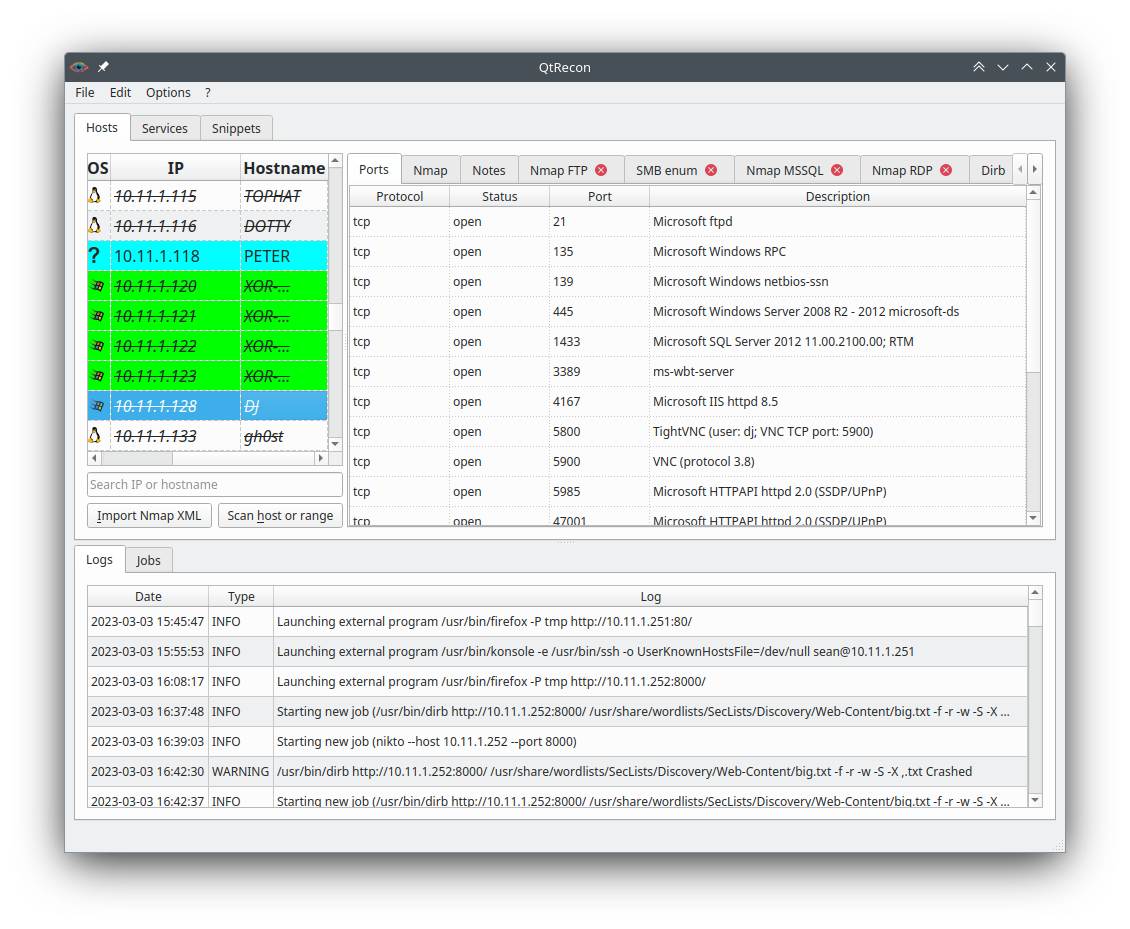
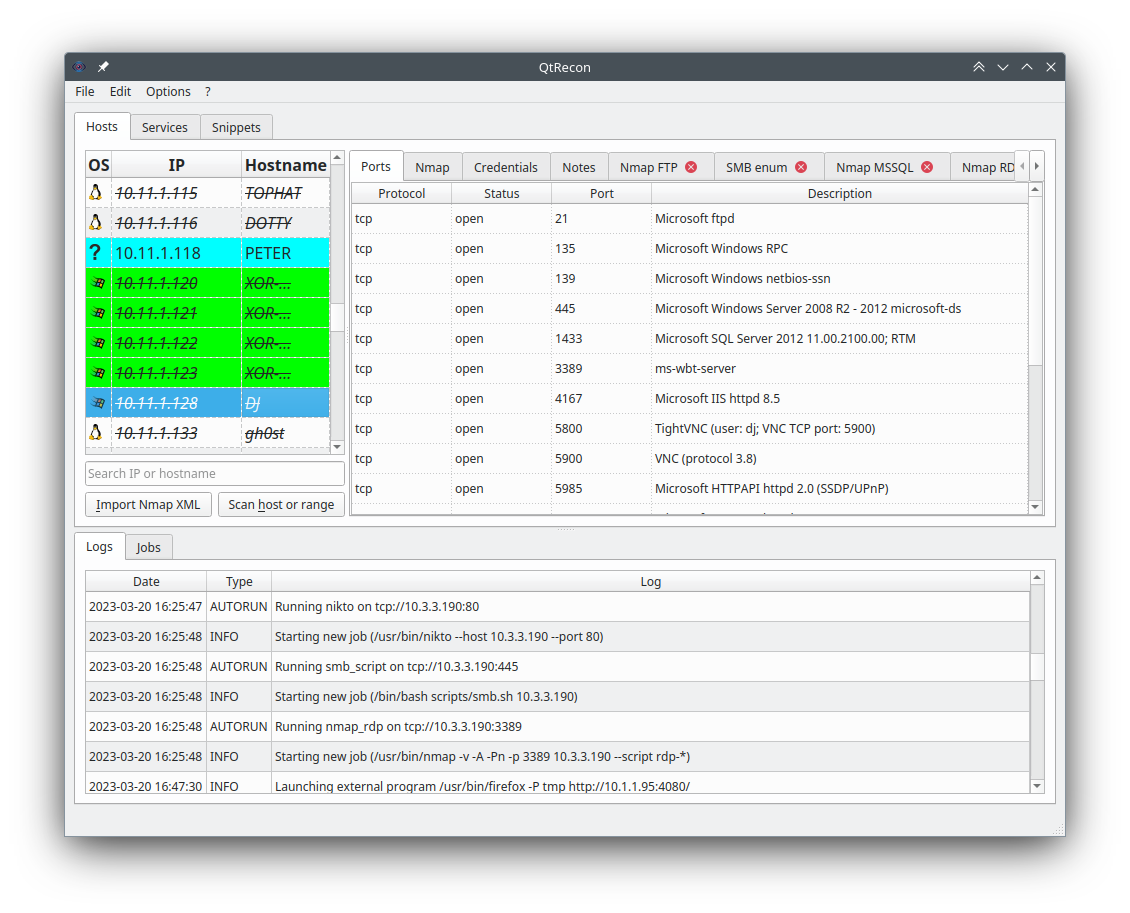
Version 1.2

Changed region(s): [[0.0619, 0.0613, 0.9292, 0.8894], [0.8673, 0.0613, 0.9292, 0.092], [0.4646, 0.0613, 0.5265, 0.092]]

diff --git a/core/view.py b/core/view.py
@@ -1,6 +1,6 @@
 from PySide2.QtGui import QCursor, QIcon, QTextCursor
 from PySide2.QtWidgets import QApplication, QFileDialog, QTabBar, QTableWidgetItem, QMenu, QTextEdit, QTableWidget, \
-    QAbstractItemView, QMessageBox, QInputDialog, QDialog, QLabel, QLineEdit, QHeaderView
+    QAbstractItemView, QMessageBox, QInputDialog, QDialog, QLabel, QLineEdit, QHeaderView, QWidget, QComboBox
 from PySide2.QtCore import QPoint, QModelIndex, Qt
 
 import ipaddress  # check input for IP
@@ -24,6 +24,7 @@ class View:
 
         self.default_tabs = [{'name': 'Ports', 'object': type(QTableWidget())},
                              {'name': 'Nmap', 'object': type(QTextEdit())},
+                             {'name': 'Credentials', 'object': type(QTableWidget())},
                              {'name': 'Notes', 'object': type(QNoteTextEdit())}]
         self.app_tabs = dict()
 
@@ -131,7 +132,7 @@ class View:
         self.ui.ui.escaped_chars.textEdited.connect(self.setup_ui_snippets_body)
         self.ui.ui.urlencoded_chars.textEdited.connect(self.setup_ui_snippets_body)
         self.ui.ui.port_table.itemSelectionChanged.connect(self.change_filter_hosts_for_port)
-        self.ui.ui.machine_list_copy_selection_to_clipboard.clicked.connect(self.machine_list_copy_selection_to_clipboard)
+        self.ui.ui.machine_list_copy_selection_to_clipboard.clicked.connect(lambda: self.copy_selectedIndexes_to_clipboard(self.ui.ui.hosts_for_port_table.selectedIndexes()))
         self.ui.ui.machine_list_copy_all_to_clipboard.clicked.connect(self.machine_list_copy_all_to_clipboard)
         self.ui.ui.hosts_for_port_table.customContextMenuRequested.connect(self.right_click_in_hosts_for_port_table)
 
@@ -399,6 +400,53 @@ class View:
                     self.controller.new_job(program, hosts[host]['id'], port)
                 return
 
+    def right_click_in_creds_table(self, qpoint: QPoint):
+        item = self.app_tabs['Credentials'].indexAt(qpoint)
+
+        if item is None:
+            return
+
+        top_menu = QMenu()
+
+        if item.row() >= 0 or item.column() >= 0:
+            clipboard_action = top_menu.addAction("Copy selected cells into clipboard")
+            clipboard_action.setIcon(QIcon.fromTheme("edit-copy"))
+            delete_action = top_menu.addAction("Delete credentials")
+            delete_action.setIcon(QIcon.fromTheme("edit-delete"))
+            top_menu.addSeparator()
+        insert_action = top_menu.addAction("Insert new credentials")
+        insert_action.setIcon(QIcon.fromTheme("document-new"))
+
+        action = top_menu.exec_(QCursor.pos())
+        if not action:
+            return
+
+        if action == insert_action:
+            self.app_tabs['Credentials'].insertRow(self.app_tabs['Credentials'].rowCount())
+            new_id = self.controller.create_creds()
+            self.app_tabs['Credentials'].setItem(self.app_tabs['Credentials'].rowCount()-1, 0, QTableWidgetItem(str(new_id)))
+
+            combo = QComboBox()
+            combo.addItems(["password", "hash", "ssh_key", "other"])
+            combo.setProperty('cred_id', str(new_id))
+            self.app_tabs['Credentials'].setCellWidget(self.app_tabs['Credentials'].rowCount()-1, 1, combo)
+            combo.currentTextChanged.connect(lambda new_type, qcombobox=combo: self.credentials_changed(qcombobox)) # signal in loop: https://stackoverflow.com/questions/46300229/connecting-multiples-signal-slot-in-a-for-loop-in-pyqt
+
+        elif action == clipboard_action:
+            self.copy_selectedIndexes_to_clipboard(self.app_tabs['Credentials'].selectedIndexes())
+        elif action == delete_action:
+            items = self.app_tabs['Credentials'].selectedIndexes()
+            creds_ids = []
+            rows_to_delete = []
+            for item in items:
+                creds_ids.append(self.app_tabs['Credentials'].item(item.row(), 0).text())
+                rows_to_delete.append(item.row())
+
+            for row in reversed(sorted(rows_to_delete)):
+                self.app_tabs['Credentials'].removeRow(int(row))
+
+            self.controller.delete_creds(list(set(creds_ids)))
+
     def launch_custom_command_dialog(self):
         new_scan_dialog = Custom_Command()
         new_scan_dialog.ui.detached.stateChanged.connect(lambda checked: new_scan_dialog.in_terminal.setEnabled(checked))
@@ -460,7 +508,7 @@ class View:
             if not filename.endswith('.sqlite'):
                 filename += '.sqlite'
             self.controller.save_db(filename)
-        
+
     def dialog_import_xml(self):
         filename, _ = QFileDialog.getOpenFileName(caption='Import nmap XML output', dir='.', filter='*.xml')
         if filename:
@@ -488,6 +536,14 @@ class View:
         current_notes = self.app_tabs['Notes'].toHtml()
         self.controller.update_notes_for_current_host(current_notes)
 
+    def credentials_changed(self, item: QComboBox | QTableWidgetItem):
+        columns_description = {0: "id", 1: "type", 2: "domain", 3: "username", 4: "password"}
+        if type(item) == QComboBox: # Type of cred has changed
+            self.controller.update_credentials(item.property('cred_id'), columns_description[1], item.currentText())
+        elif type(item) == QTableWidgetItem: # Any cell other than the credential type has changed
+            cred_id = self.app_tabs['Credentials'].item(item.row(), 0).text()
+            self.controller.update_credentials(cred_id, columns_description[item.column()], item.text())
+
     def new_tab(self, title: str, job_id: int, content: str = "") -> QTextEdit:
         tab = QTextEdit(content)
         tab.setReadOnly(True)
@@ -511,7 +567,10 @@ class View:
         self.close_right_panel_tabs()
 
         for widget in self.default_tabs:
-            self.app_tabs[widget['name']] = widget['object']()
+            if issubclass(widget['object'], QWidget):
+                self.app_tabs[widget['name']] = widget['object']()
+            else:
+                self.app_tabs[widget['name']] = QWidget()
             self.ui.ui.application_TabWidget.addTab(self.app_tabs[widget['name']], widget['name'])
 
         # Setup ports view
@@ -528,6 +587,19 @@ class View:
         # Setup nmap tab
         self.app_tabs['Nmap'].setReadOnly(True)
 
+        # Setup creds tab
+        self.app_tabs['Credentials'].setColumnCount(5)
+        self.app_tabs['Credentials'].setColumnHidden(0, True)
+        self.app_tabs['Credentials'].setHorizontalHeaderItem(0, QTableWidgetItem('id'))
+        self.app_tabs['Credentials'].setHorizontalHeaderItem(1, QTableWidgetItem('type'))
+        self.app_tabs['Credentials'].setHorizontalHeaderItem(2, QTableWidgetItem('domain'))
+        self.app_tabs['Credentials'].setHorizontalHeaderItem(3, QTableWidgetItem('username'))
+        self.app_tabs['Credentials'].setHorizontalHeaderItem(4, QTableWidgetItem('password'))
+        self.app_tabs['Credentials'].horizontalHeader().setStretchLastSection(True)
+        self.app_tabs['Credentials'].itemChanged.connect(self.credentials_changed)
+        self.app_tabs['Credentials'].setContextMenuPolicy(Qt.CustomContextMenu)
+        self.app_tabs['Credentials'].customContextMenuRequested.connect(self.right_click_in_creds_table)
+
         # Setup notes signal / slot
         self.app_tabs['Notes'].textChanged.connect(self.update_notes)
 
@@ -535,6 +607,7 @@ class View:
         self.ui.ui.application_TabWidget.tabBar().tabButton(0, QTabBar.RightSide).resize(0, 0)
         self.ui.ui.application_TabWidget.tabBar().tabButton(1, QTabBar.RightSide).resize(0, 0)
         self.ui.ui.application_TabWidget.tabBar().tabButton(2, QTabBar.RightSide).resize(0, 0)
+        self.ui.ui.application_TabWidget.tabBar().tabButton(3, QTabBar.RightSide).resize(0, 0)
 
     def update_right_panel(self, host: QModelIndex):
         host_details = self.controller.get_selected_host(host)
@@ -563,9 +636,28 @@ class View:
         if 'nmap' in host_details.keys():
             self.app_tabs['Nmap'].setText(host_details['nmap'])
 
+        # Credentials
+        self.app_tabs['Credentials'].blockSignals(True)
+        self.app_tabs['Credentials'].setRowCount(len(host_details['credentials']))
+        for row in range(len(host_details['credentials'])):
+            combo = QComboBox()
+            combo.addItems(["password", "hash", "ssh_key", "other"])
+            self.app_tabs['Credentials'].setCellWidget(row, 1, combo)
+
+        for i, cred in enumerate(host_details['credentials']):
+            self.app_tabs['Credentials'].setItem(i, 0, QTableWidgetItem(str(cred['id'])))
+            self.app_tabs['Credentials'].cellWidget(i, 1).setCurrentText(str(cred['type']))
+            self.app_tabs['Credentials'].cellWidget(i, 1).setProperty('cred_id', str(cred['id']))
+            self.app_tabs['Credentials'].cellWidget(i, 1).currentTextChanged.connect(lambda new_type, qcombobox=self.app_tabs['Credentials'].cellWidget(i, 1): self.credentials_changed(qcombobox)) # signal in loop: https://stackoverflow.com/questions/46300229/connecting-multiples-signal-slot-in-a-for-loop-in-pyqt
+            self.app_tabs['Credentials'].setItem(i, 2, QTableWidgetItem(str(cred['domain'])))
+            self.app_tabs['Credentials'].setItem(i, 3, QTableWidgetItem(str(cred['username'])))
+            self.app_tabs['Credentials'].setItem(i, 4, QTableWidgetItem(str(cred['password'])))
+
+        self.app_tabs['Credentials'].blockSignals(False)
+
         # Notes
         if 'notes' in host_details.keys():
-            self.app_tabs['Notes'].blockSignals(True) # Consumes less resources, and do not trigger the dirty marker on databas
+            self.app_tabs['Notes'].blockSignals(True) # Consumes less resources, and do not trigger the dirty marker on database
             try:
                 self.app_tabs['Notes'].setHtml(host_details['notes'])
             except ValueError:
@@ -616,9 +708,9 @@ class View:
 
         self.ui.ui.application_TabWidget.removeTab(tab_index)
 
-    def machine_list_copy_selection_to_clipboard(self):
+    def copy_selectedIndexes_to_clipboard(self, selectedIndexes: list):
         data = {}
-        for item in self.ui.ui.hosts_for_port_table.selectedIndexes():
+        for item in selectedIndexes:
             if item.data() is None:
                 continue
             if item.row() in data.keys():
@@ -636,5 +728,5 @@ class View:
 
     def machine_list_copy_all_to_clipboard(self):
         self.ui.ui.hosts_for_port_table.selectAll()
-        self.machine_list_copy_selection_to_clipboard()
+        self.copy_selectedIndexes_to_clipboard(self.ui.ui.hosts_for_port_table.selectedIndexes())
 

diff --git a/core/database.py b/core/database.py
@@ -13,11 +13,12 @@ class Database:
         Database.database = sqlite3.connect(':memory:')
         Database.database.row_factory = lambda C, R: {c[0]: R[i] for i, c in enumerate(C.description)} # get dict output (https://stackoverflow.com/questions/3300464/how-can-i-get-dict-from-sqlite-query)
 
-        Database.database.execute("create table hosts(id integer primary key autoincrement not null, os text, ip, hostname, mac, highlight text, pwned integer not null default 0 check(pwned IN (0,1)) , nmap, notes)")
-        Database.database.execute("create table hosts_ports(host_id integer, proto text, port, status text, description text)")
-        Database.database.execute("create table hosts_tabs(id integer primary key autoincrement not null, host_id integer, job_id integer, title text, text)")
-        Database.database.execute("create table logs(id integer primary key autoincrement not null, date, type, log)")
-        Database.database.execute("create table jobs(id integer primary key autoincrement not null, host_id integer, type, timestamp, state, command)")
+        Database.database.execute("CREATE TABLE hosts(id integer primary key autoincrement not null, os text, ip, hostname, mac, highlight text, pwned integer not null default 0 check(pwned IN (0,1)) , nmap, notes)")
+        Database.database.execute("CREATE TABLE hosts_ports(host_id integer, proto text, port, status text, description text)")
+        Database.database.execute("CREATE TABLE hosts_tabs(id integer primary key autoincrement not null, host_id integer, job_id integer, title text, text)")
+        Database.database.execute("CREATE TABLE hosts_creds(id INTEGER primary key autoincrement not null, host_id integer, type TEXT DEFAULT 'password', domain TEXT DEFAULT '', username TEXT DEFAULT '', password TEXT DEFAULT '')")
+        Database.database.execute("CREATE TABLE logs(id integer primary key autoincrement not null, date, type, log)")
+        Database.database.execute("CREATE TABLE jobs(id integer primary key autoincrement not null, host_id integer, type, timestamp, state, command)")
 
         Database.has_unsaved_data = False
         Database.current_savefile = ""
@@ -52,6 +53,11 @@ class Database:
         Database.init_DB()
 
         source.backup(Database.database)
+
+        # Compatibility code : if table hosts_creds does not exist (QtRecon < 1.2), then create it
+        if not Database.request("SELECT name FROM sqlite_schema WHERE type = 'table' AND name = 'hosts_creds'").fetchall():
+            Database.database.execute("CREATE TABLE hosts_creds(id INTEGER primary key autoincrement not null, host_id integer, type TEXT DEFAULT 'password', domain TEXT DEFAULT '', username TEXT DEFAULT '', password TEXT DEFAULT '')")
+
         Database.database.commit()
         Database.current_savefile = filename
 

diff --git a/core/controller.py b/core/controller.py
@@ -19,7 +19,7 @@ from core.models.jobmodel import JobModel
 
 
 class Controller:
-    APPLICATION_VERSION = "1.1"
+    APPLICATION_VERSION = "1.2"
     autosave_timer = QTimer()
 
     def __init__(self, ui):
@@ -297,6 +297,17 @@ class Controller:
         if self.get_job(tab['job_id']):
             self.get_job(tab['job_id']).kill()
         self.host_model.remove_external_tab(tab['job_id'])
+
+    def create_creds(self, host_id: str = "") -> int:
+        host = self.host_model.get_host_details(host_id) if host_id else self.get_selected_host()
+        return Database.request("INSERT INTO hosts_creds(host_id) VALUES (?) RETURNING id", (host['id'], )).fetchone()['id']
+
+    def delete_creds(self, creds_ids: list) -> None:
+        for cred_id in creds_ids:
+            Database.request("DELETE FROM hosts_creds WHERE id = ?", (cred_id, ))
+
+    def update_credentials(self, cred_id: str, column: str, new_value: str):
+        Database.request(f"UPDATE hosts_creds SET {column} = ? WHERE id = ?", (new_value, cred_id))
 
     def new_job(self, program: dict, host_id: str = "", port: str = ""):
         host_dst = self.host_model.get_host_details(host_id) if host_id else self.get_selected_host()

diff --git a/core/models/hostmodel.py b/core/models/hostmodel.py
@@ -158,6 +158,7 @@ class HostModel(QAbstractTableModel):
         host = Database.request('select * from hosts where id = ?', (host_id, )).fetchone()
         host['ports'] = Database.request('select * from hosts_ports where host_id = ?', (host_id, )).fetchall()
         host['external_tabs'] = Database.request('select * from hosts_tabs where host_id = ?', (host_id, )).fetchall()
+        host['credentials'] = Database.request('select * from hosts_creds where host_id = ?', (host_id, )).fetchall()
         return host
 
     def get_all_host_details(self):

diff --git a/README.md b/README.md
@@ -126,6 +126,10 @@ The final XML file created by root must be readable by your user, meaning that a
 
 ## Changelog
 
+v1.2:
+- Bug fixes
+- Added the credentials tab for every hosts
+
 v1.1:
 - Improved code for handling snippets
 - Can now drag & drop or paste pictures into the note field
@@ -141,7 +145,7 @@ v1.1:
 - [x] Autorun any à fixer
 - [x] Snippets : only use list of list, where the first element is the title
 - [x] Fixed font for snippets
-- [X] Remove sharename variable & unify variables ?
+- [ ] Remove sharename variable & unify variables ? 
 - [ ] Option to force edit command before an interactive run
 - [ ] Save configuration from GUI
 - [ ] Configure tools and configuration from GUI
